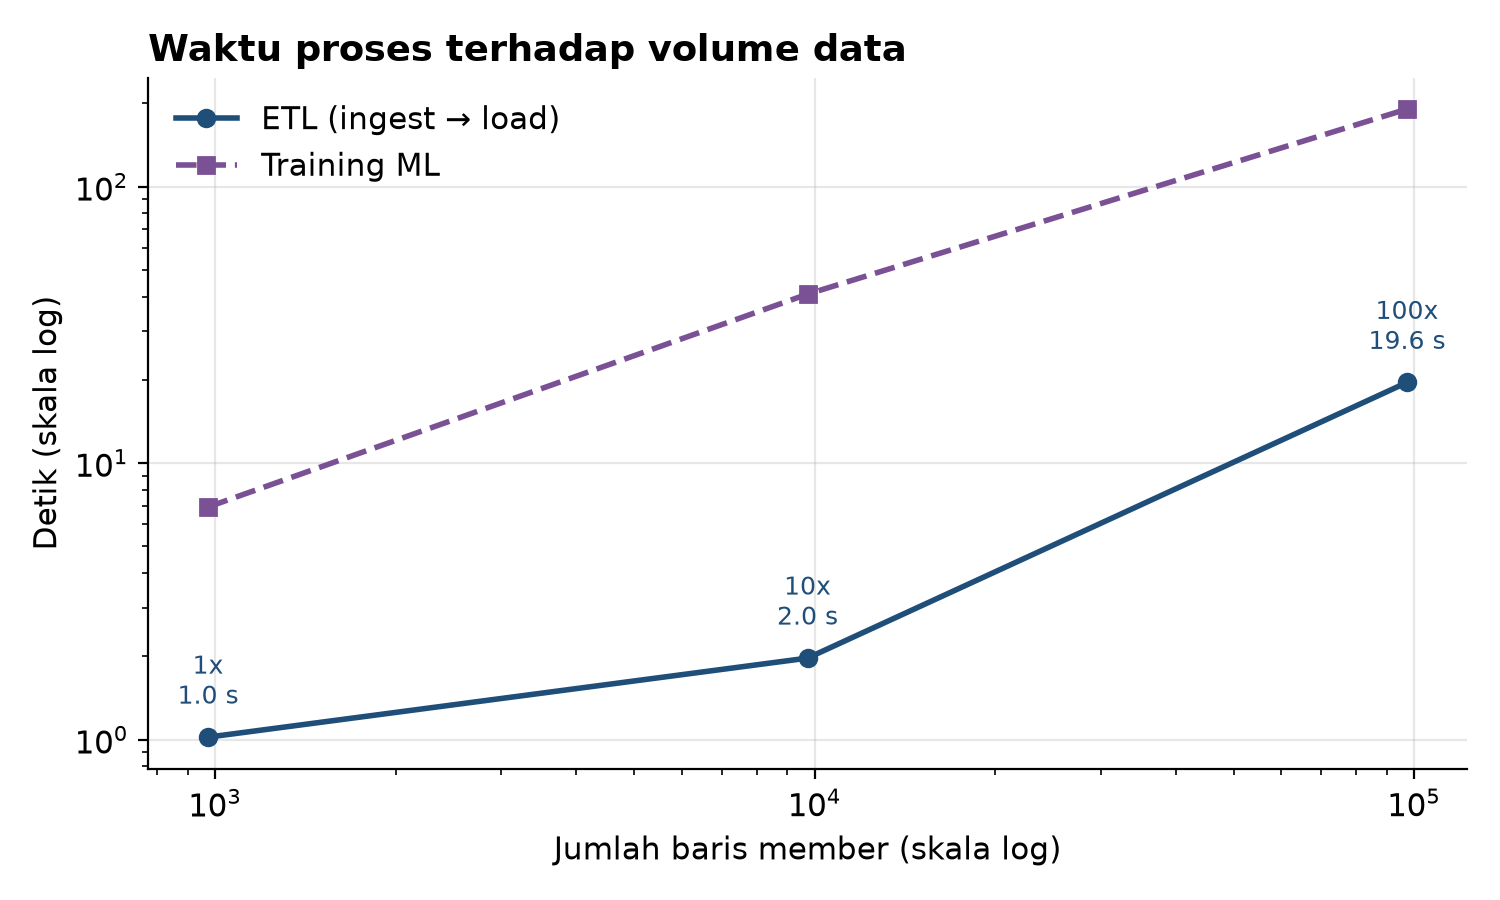
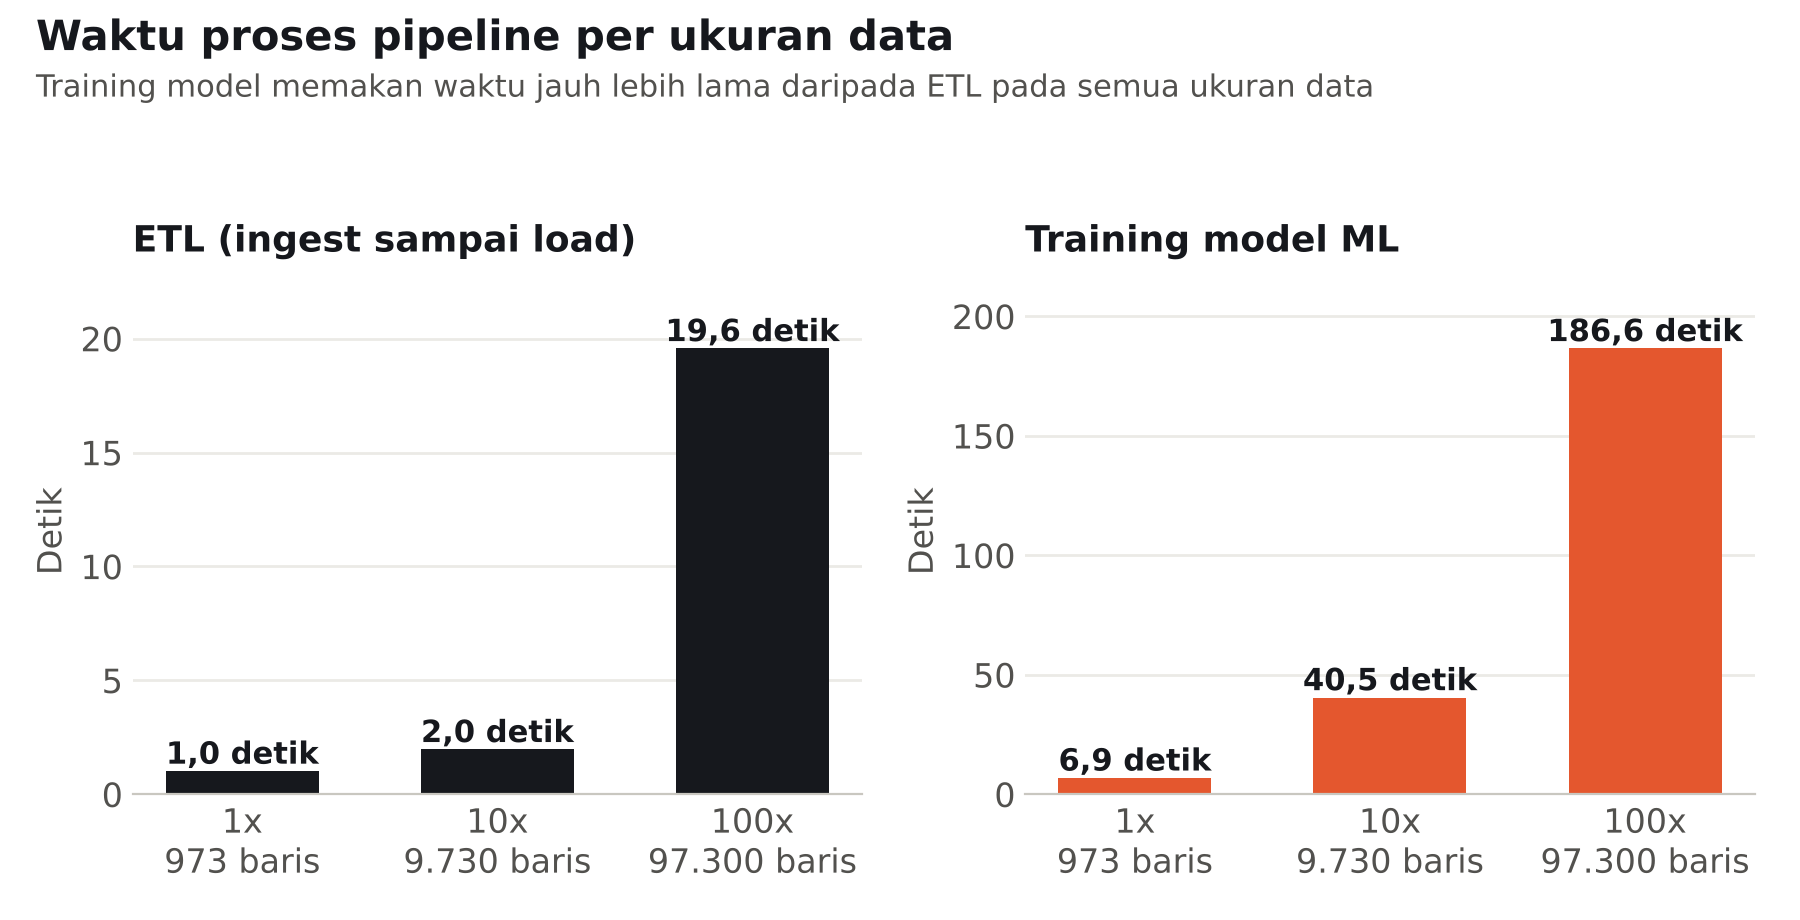
Grafik uji skala lebih mudah dibaca

diff --git a/scripts/grafik_uji_skala.py b/scripts/grafik_uji_skala.py
@@ -1,9 +1,12 @@
 """Buat grafik hasil uji skala untuk laporan/PPT (jalankan di laptop: python scripts/grafik_uji_skala.py).
 
 Membaca data/uji_skala/hasil_uji_skala.csv, menulis 3 file PNG di folder yang sama:
-  1_waktu_vs_data.png   waktu ETL dan ML terhadap jumlah baris (skala log)
+  1_waktu_vs_data.png   waktu ETL dan waktu training ML per ukuran data (dua panel, sumbu biasa)
   2_porsi_tahap.png     porsi waktu tiap tahap ETL (mencari bottleneck)
-  3_memori.png          puncak memori dibanding batas container Airflow
+  3_memori.png          puncak memori dibanding batas memori container Airflow
+
+Warna mengikuti identitas FitZone: tinta #16181d, aksen oranye #e4572e, abu-abu untuk pembanding.
+Angka memakai format Indonesia (koma desimal, titik ribuan).
 """
 from pathlib import Path
 
@@ -12,67 +15,119 @@ import pandas as pd
 
 DIR = Path(__file__).resolve().parents[1] / "data" / "uji_skala"
 BATAS_CONTAINER_MB = 1536                     # mem_limit airflow-scheduler di docker-compose.yml
-WARNA = {"ingest": "#9ec5e8", "stage": "#4a90c8", "transform": "#e8a23a", "load": "#c8553d",
-         "etl": "#1f4e79", "ml": "#7a5195"}
+
+TINTA = "#16181d"
+ORANYE = "#e4572e"
+ABU = ["#d9d7d0", "#b4b2aa", "#85837c"]       # ingest, stage, transform
+TEKS2 = "#52514e"
+
+
+def n(v, d=0):
+    """Angka format Indonesia."""
+    s = f"{v:,.{d}f}"
+    return s.replace(",", "X").replace(".", ",").replace("X", ".")
+
+
+def label_skala(r):
+    return f"{r.skala}\n{n(r.baris)} baris"
+
+
+def rapikan(ax, sumbu_y=True):
+    for s in ("top", "right", "left"):
+        ax.spines[s].set_visible(False)
+    ax.spines["bottom"].set_color("#c9c7c0")
+    ax.tick_params(axis="both", length=0, colors=TEKS2)
+    if sumbu_y:
+        ax.yaxis.grid(True, color="#ebeae6", lw=1)
+        ax.set_axisbelow(True)
+
 
 df = pd.read_csv(DIR / "hasil_uji_skala.csv")
 ok = df[df["status"] == "SUKSES"].copy()
-ok["ml_sec"] = ok[[c for c in ("ml_load_data_sec", "ml_train_sec", "ml_write_sec") if c in ok]].sum(axis=1)
+gagal = df[df["status"] != "SUKSES"]
+ok["ml_sec"] = ok["ml_train_sec"]           # waktu melatih model, sama dengan Tabel 4.8 laporan
+label = [label_skala(r) for r in ok.itertuples()]
 
-plt.rcParams.update({"font.size": 11, "axes.spines.top": False, "axes.spines.right": False})
+plt.rcParams.update({"font.size": 12, "font.family": "DejaVu Sans", "axes.titlesize": 13})
 
-# 1) Waktu vs jumlah data
-fig, ax = plt.subplots(figsize=(7.5, 4.5))
-ax.plot(ok["baris"], ok["etl_sec"], "o-", color=WARNA["etl"], lw=2, label="ETL (ingest → load)")
-if ok["ml_sec"].gt(0).any():
-    ax.plot(ok["baris"], ok["ml_sec"], "s--", color=WARNA["ml"], lw=2, label="Training ML")
-ax.set_xscale("log"); ax.set_yscale("log")
-ax.set_xlabel("Jumlah baris member (skala log)"); ax.set_ylabel("Detik (skala log)")
-for r in ok.itertuples():
-    ax.annotate(f"{r.skala}\n{r.etl_sec:.1f} s", (r.baris, r.etl_sec), textcoords="offset points",
-                xytext=(0, 9), ha="center", va="bottom", fontsize=9, color=WARNA["etl"])
-ax.set_title("Waktu proses terhadap volume data", loc="left", fontweight="bold")
-ax.legend(frameon=False); ax.grid(alpha=0.3, which="major")
-fig.tight_layout(); fig.savefig(DIR / "1_waktu_vs_data.png", dpi=200); plt.close(fig)
+# 1) Waktu proses: dua panel terpisah agar tiap angka terbaca tanpa skala log
+fig, axes = plt.subplots(1, 2, figsize=(9, 4.6))
+for ax, kol, judul, warna in [(axes[0], "etl_sec", "ETL (ingest sampai load)", TINTA),
+                              (axes[1], "ml_sec", "Training model ML", ORANYE)]:
+    v = ok[kol].tolist()
+    bar = ax.bar(label, v, color=warna, width=0.6)
+    for b, x in zip(bar, v):
+        ax.text(b.get_x() + b.get_width() / 2, x, f"{n(x, 1)} detik", ha="center", va="bottom",
+                fontsize=11, color=TINTA, fontweight="bold")
+    ax.set_title(judul, loc="left", color=TINTA, fontweight="bold")
+    ax.set_ylim(0, max(v) * 1.18)
+    ax.set_ylabel("Detik", color=TEKS2)
+    rapikan(ax)
+fig.suptitle("Waktu proses pipeline per ukuran data", x=0.02, ha="left", fontsize=15, fontweight="bold",
+             color=TINTA)
+fig.text(0.02, 0.895, "Training model memakan waktu jauh lebih lama daripada ETL pada semua ukuran data",
+         fontsize=11, color=TEKS2)
+fig.tight_layout(rect=(0, 0, 1, 0.88))
+fig.savefig(DIR / "1_waktu_vs_data.png", dpi=200, facecolor="white")
+plt.close(fig)
 
 # 2) Porsi waktu tiap tahap ETL
 tahap = ["ingest", "stage", "transform", "load"]
-porsi = ok.set_index("skala")[[f"{t}_sec" for t in tahap]]
-porsi = porsi.div(porsi.sum(axis=1), axis=0) * 100
-fig, ax = plt.subplots(figsize=(7.5, 4.5))
-kiri = pd.Series(0.0, index=porsi.index)
+nama_tahap = {"ingest": "Ingest", "stage": "Staging", "transform": "Transform", "load": "Load ke DWH"}
+warna_tahap = dict(zip(tahap, ABU + [ORANYE]))
+detik = ok.set_index("skala")[[f"{t}_sec" for t in tahap]]
+porsi = detik.div(detik.sum(axis=1), axis=0) * 100
+fig, ax = plt.subplots(figsize=(9, 4.4))
+ylab = [label_skala(r).replace("\n", " · ") for r in ok.itertuples()]
+kiri = [0.0] * len(porsi)
 for t in tahap:
-    v = porsi[f"{t}_sec"]
-    ax.barh(porsi.index, v, left=kiri, color=WARNA[t], label=t)
-    for i, (x, w) in enumerate(zip(kiri, v)):
-        if w >= 7:
-            ax.text(x + w / 2, i, f"{w:.0f}%", ha="center", va="center", fontsize=9,
-                    color="white" if t in ("stage", "load") else "black")
-    kiri += v
-ax.invert_yaxis(); ax.set_xlim(0, 100); ax.set_xlabel("% waktu ETL")
-ax.set_title("Porsi waktu per tahap ETL", loc="left", fontweight="bold")
-ax.legend(ncol=4, frameon=False, loc="upper center", bbox_to_anchor=(0.5, -0.15))
-fig.tight_layout(); fig.savefig(DIR / "2_porsi_tahap.png", dpi=200); plt.close(fig)
+    v = porsi[f"{t}_sec"].tolist()
+    ax.barh(ylab, v, left=kiri, color=warna_tahap[t], height=0.6, label=nama_tahap[t],
+            edgecolor="white", linewidth=1.5)
+    for i, (x, l) in enumerate(zip(v, kiri)):
+        if x >= 8:
+            ax.text(l + x / 2, i, f"{n(x)}%", ha="center", va="center", fontsize=11,
+                    color="white" if t in ("transform", "load") else TINTA, fontweight="bold")
+    kiri = [a + b for a, b in zip(kiri, v)]
+ax.invert_yaxis()
+ax.set_xlim(0, 100)
+ax.set_xlabel("Persentase waktu ETL (%)", color=TEKS2)
+ax.legend(ncol=4, frameon=False, loc="lower left", bbox_to_anchor=(0, 1.0), fontsize=11)
+rapikan(ax, sumbu_y=False)
+fig.suptitle("Tahap load makin dominan saat data membesar", x=0.02, ha="left", fontsize=15,
+             fontweight="bold", color=TINTA)
+fig.text(0.02, 0.895, "Porsi waktu tiap tahap ETL terhadap total waktu ETL", fontsize=11, color=TEKS2)
+fig.tight_layout(rect=(0, 0, 1, 0.88))
+fig.savefig(DIR / "2_porsi_tahap.png", dpi=200, facecolor="white")
+plt.close(fig)
 
-# 3) Puncak memori
-if "peak_mem_mb" in df and df["peak_mem_mb"].notna().any():
-    fig, ax = plt.subplots(figsize=(7.5, 4.5))
-    # Skala yang gagal: puncak memori tidak terukur (proses dihentikan sistem), jadi digambar
-    # setinggi batas container dengan arsiran dan label GAGAL, bukan angka palsu.
-    for i, r in enumerate(df.itertuples()):
-        if r.status == "SUKSES":
-            ax.bar(i, r.peak_mem_mb, color="#1f4e79")
-            ax.text(i, r.peak_mem_mb, f"{r.peak_mem_mb:,.0f} MB", ha="center", va="bottom", fontsize=9)
-        else:
-            ax.bar(i, BATAS_CONTAINER_MB, color="#f1d3cd", edgecolor="#c8553d", hatch="//")
-            ax.text(i, BATAS_CONTAINER_MB / 2, "GAGAL\nmemori\nhabis", ha="center", va="center",
-                    fontsize=10, color="#c8553d", fontweight="bold",
-                    bbox=dict(facecolor="white", edgecolor="none", pad=3))
-    ax.set_xticks(range(len(df)), df["skala"])
-    ax.axhline(BATAS_CONTAINER_MB, color="#c8553d", ls="--", lw=1.5)
-    ax.text(-0.4, BATAS_CONTAINER_MB * 1.03, f"batas container {BATAS_CONTAINER_MB} MB", color="#c8553d", fontsize=9)
-    ax.set_ylabel("Puncak memori (MB)")
-    ax.set_title("Puncak memori proses pipeline", loc="left", fontweight="bold")
-    fig.tight_layout(); fig.savefig(DIR / "3_memori.png", dpi=200); plt.close(fig)
+# 3) Puncak memori; ukuran yang gagal tidak digambar sebagai batang karena puncaknya tidak terukur
+fig, ax = plt.subplots(figsize=(9, 4.8))
+semua = df.copy()
+lab_semua = [label_skala(r) for r in semua.itertuples()]
+nilai = [r.peak_mem_mb if r.status == "SUKSES" else 0 for r in semua.itertuples()]
+bar = ax.bar(lab_semua, nilai, color=TINTA, width=0.6)
+for b, r in zip(bar, semua.itertuples()):
+    x = b.get_x() + b.get_width() / 2
+    if r.status == "SUKSES":
+        ax.text(x, r.peak_mem_mb, f"{n(r.peak_mem_mb)} MB", ha="center", va="bottom", fontsize=11,
+                fontweight="bold", color=TINTA)
+    else:
+        ax.text(x, BATAS_CONTAINER_MB * 0.45, "GAGAL\nkehabisan memori\nsaat transform", ha="center",
+                va="center", fontsize=11, fontweight="bold", color=ORANYE)
+ax.axhline(BATAS_CONTAINER_MB, color=ORANYE, ls="--", lw=1.5)
+ax.text(-0.4, BATAS_CONTAINER_MB * 1.02, f"Batas memori container: {n(BATAS_CONTAINER_MB)} MB",
+        color=ORANYE, fontsize=11, va="bottom")
+ax.set_ylim(0, BATAS_CONTAINER_MB * 1.15)
+ax.set_ylabel("Puncak memori (MB)", color=TEKS2)
+rapikan(ax)
+terbesar = ok.iloc[-1]
+ax.set_title(f"Pipeline berjalan sampai {terbesar.skala} ({n(terbesar.baris)} baris)", loc="left",
+             fontsize=15, fontweight="bold", color=TINTA, pad=26)
+ax.text(0, 1.03, "Puncak memori proses pipeline per ukuran data", transform=ax.transAxes, fontsize=11,
+        color=TEKS2)
+fig.tight_layout()
+fig.savefig(DIR / "3_memori.png", dpi=200, facecolor="white")
+plt.close(fig)
 
-print("Grafik disimpan di", DIR)
+print("Grafik tersimpan di", DIR)
